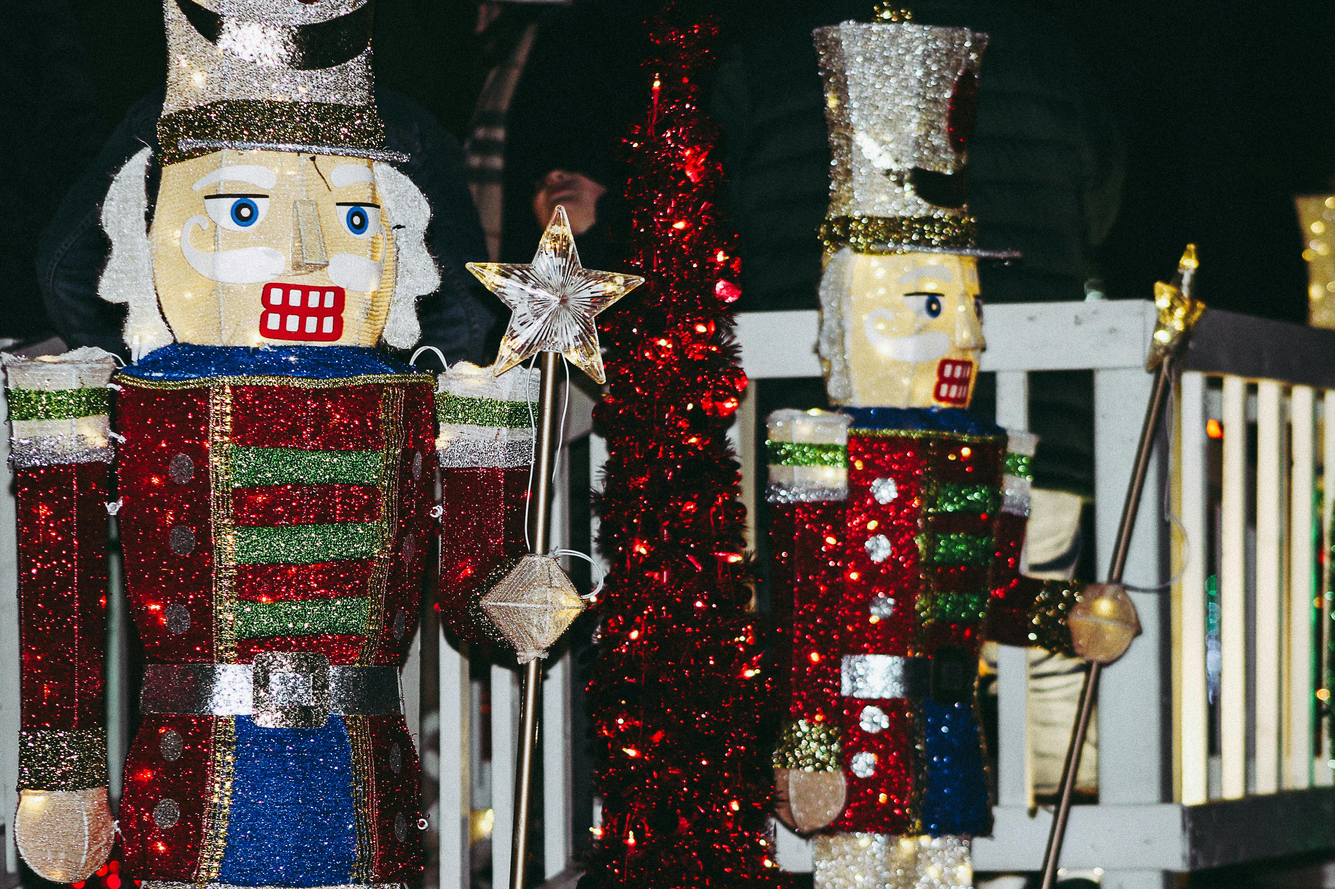
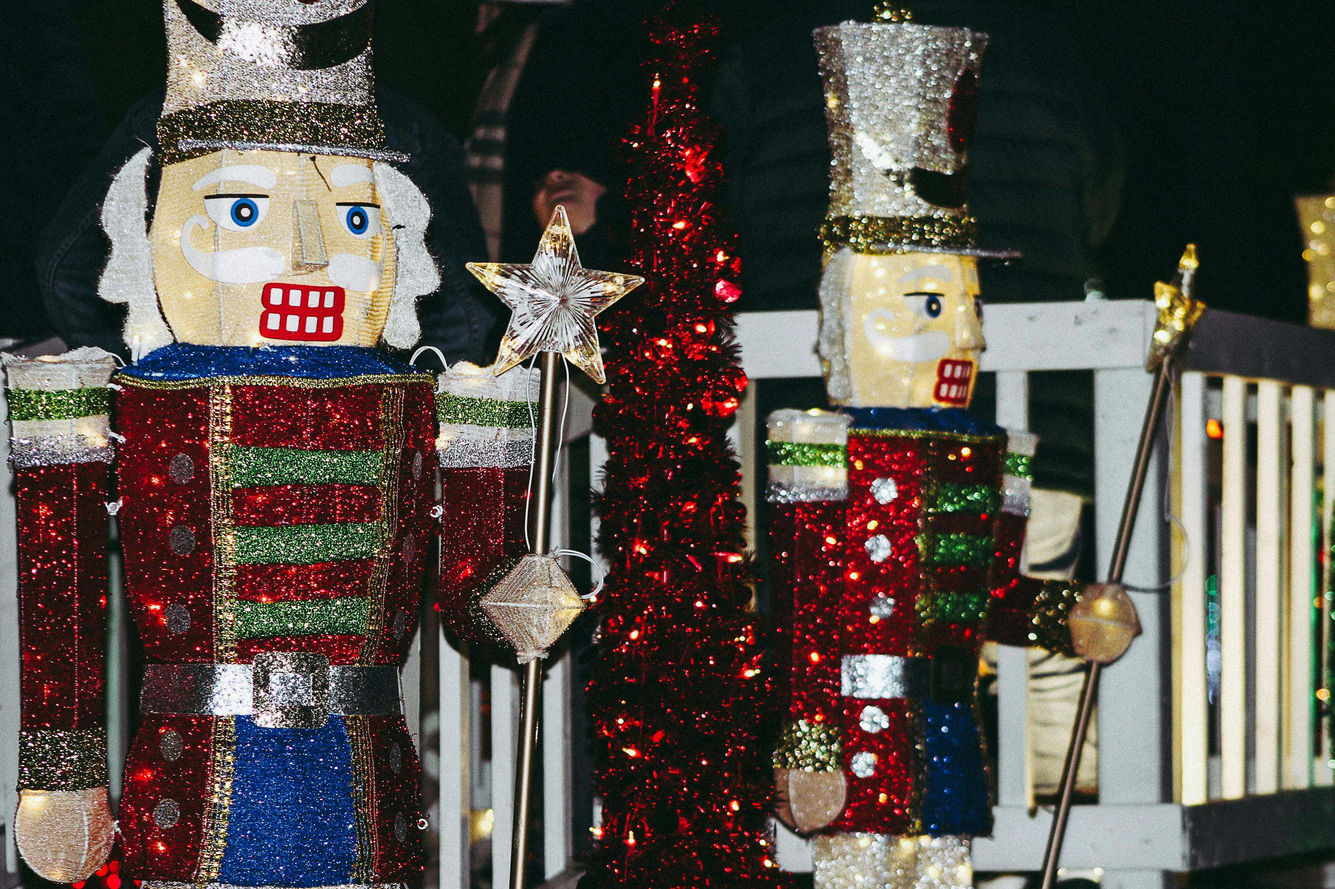
optimize images

diff --git a/live.html b/live.html
@@ -43,7 +43,7 @@
       <h1 class="live-title">Where to stay</h1>
     </div>
     <div class="container overflow-hidden text-center">
-      <div class="row row-cols-1 row-cols-sm-2 row-cols-md-4">
+      <div class="row row-cols-1 row-cols-sm-2 row-cols-md-4 category">
         <div class="col">
           <a href="hotel.html">
             <div class="product">
@@ -89,12 +89,64 @@
           </a>
         </div>
       </div>
-      <!-- <div class="row row-cols-1 row-cols-sm-3 row-cols-md-4">
-					<div class="col">Column</div>
-					<div class="col">Column</div>
-					<div class="col">Column</div>
-					<div class="col">Column</div>
-				</div> -->
+      <div class="row row-cols-1 row-cols-sm-3 row-cols-md-4">
+        <div class="col">
+          <div class="card">
+            <img
+              src="src/images/cabin-1.jpg"
+              class="card-img-top"
+              alt="hotel"
+            />
+            <div class="card-body">
+              <p class="card-text">
+                Some quick example text to build on the card title and make up
+                the bulk of the card's content.
+              </p>
+            </div>
+          </div>
+        </div>
+        <div class="col">
+          <div class="card">
+            <img
+              src="src/images/cabin-5.jpg"
+              class="card-img-top"
+              alt="cabin"
+            />
+            <div class="card-body">
+              <p class="card-text">
+                Some quick example text to build on the card title and make up
+                the bulk of the card's content.
+              </p>
+            </div>
+          </div>
+        </div>
+        <div class="col">
+          <div class="card">
+            <img src="src/images/tent-2.jpg" class="card-img-top" alt="tent" />
+            <div class="card-body">
+              <p class="card-text">
+                Some quick example text to build on the card title and make up
+                the bulk of the card's content.
+              </p>
+            </div>
+          </div>
+        </div>
+        <div class="col">
+          <div class="card">
+            <img
+              src="src/images/caravan-2.jpg"
+              class="card-img-top"
+              alt="caravan"
+            />
+            <div class="card-body">
+              <p class="card-text">
+                Some quick example text to build on the card title and make up
+                the bulk of the card's content.
+              </p>
+            </div>
+          </div>
+        </div>
+      </div>
     </div>
 
     <div id="footer-placeholder"></div>

diff --git a/festival.html b/festival.html
@@ -47,7 +47,7 @@
         theatrical performances, there's always something on.
       </p>
     </div>
-    <div class="container overflow-hidden text-center total">
+    <div class="container total">
       <div class="row row-cols-1 row-cols-sm-2">
         <div class="col-sm-4 total">
           <div class="winter">
@@ -71,6 +71,7 @@
         </div>
       </div>
     </div>
+
     <div id="footer-placeholder"></div>
   </body>
 </html>

diff --git a/hotel.html b/hotel.html
@@ -43,7 +43,7 @@
         <li>Hotel</li>
       </ol>
       <h1 class="description">Dream Getaway Awaits You Here</h1>
-      <img src="src/images/cabin-1.jpg" width="100%" />
+      <img src="src/images/hotel.jpg" width="100%" />
       <h3 class="detail">Description</h3>
       <p class="content">
         Glamping Tuscan Style in an Aframe Cabin Tent, nestled in a beautiful

diff --git a/css/live.css b/css/live.css
@@ -42,4 +42,13 @@
   justify-content:space-between;
   gap:30px;
 }
+.category{
+  margin-bottom:20px;
+}
+.card{
+  transition: transform .2s;
+}
+.card:hover{
+  transform: scale(1.1);
+}
 
